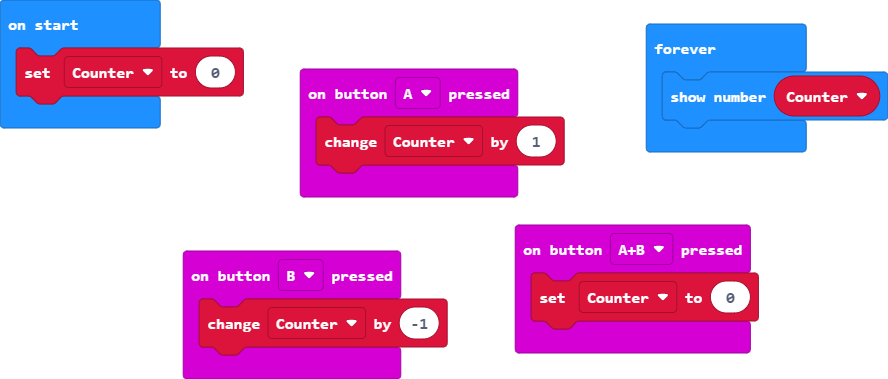
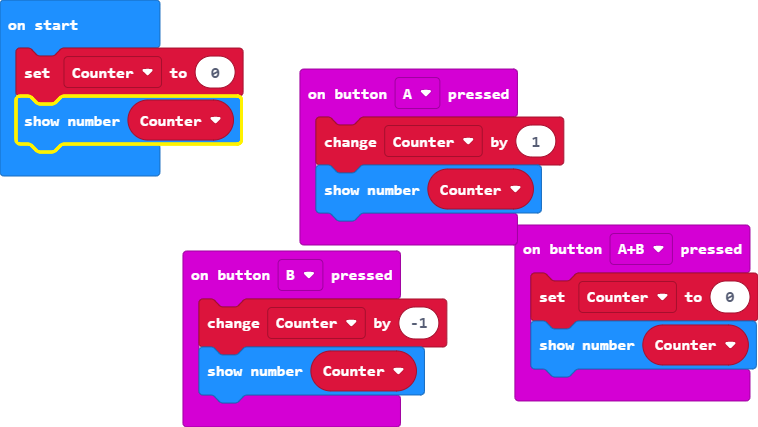
Update main.blocks, main.ts

diff --git a/main.ts b/main.ts
@@ -1,14 +1,15 @@
 input.onButtonPressed(Button.A, function () {
     Counter += 1
+    basic.showNumber(Counter)
 })
 input.onButtonPressed(Button.AB, function () {
     Counter = 0
+    basic.showNumber(Counter)
 })
 input.onButtonPressed(Button.B, function () {
     Counter += -1
+    basic.showNumber(Counter)
 })
 let Counter = 0
 Counter = 0
-basic.forever(function () {
-    basic.showNumber(Counter)
-})
+basic.showNumber(Counter)
